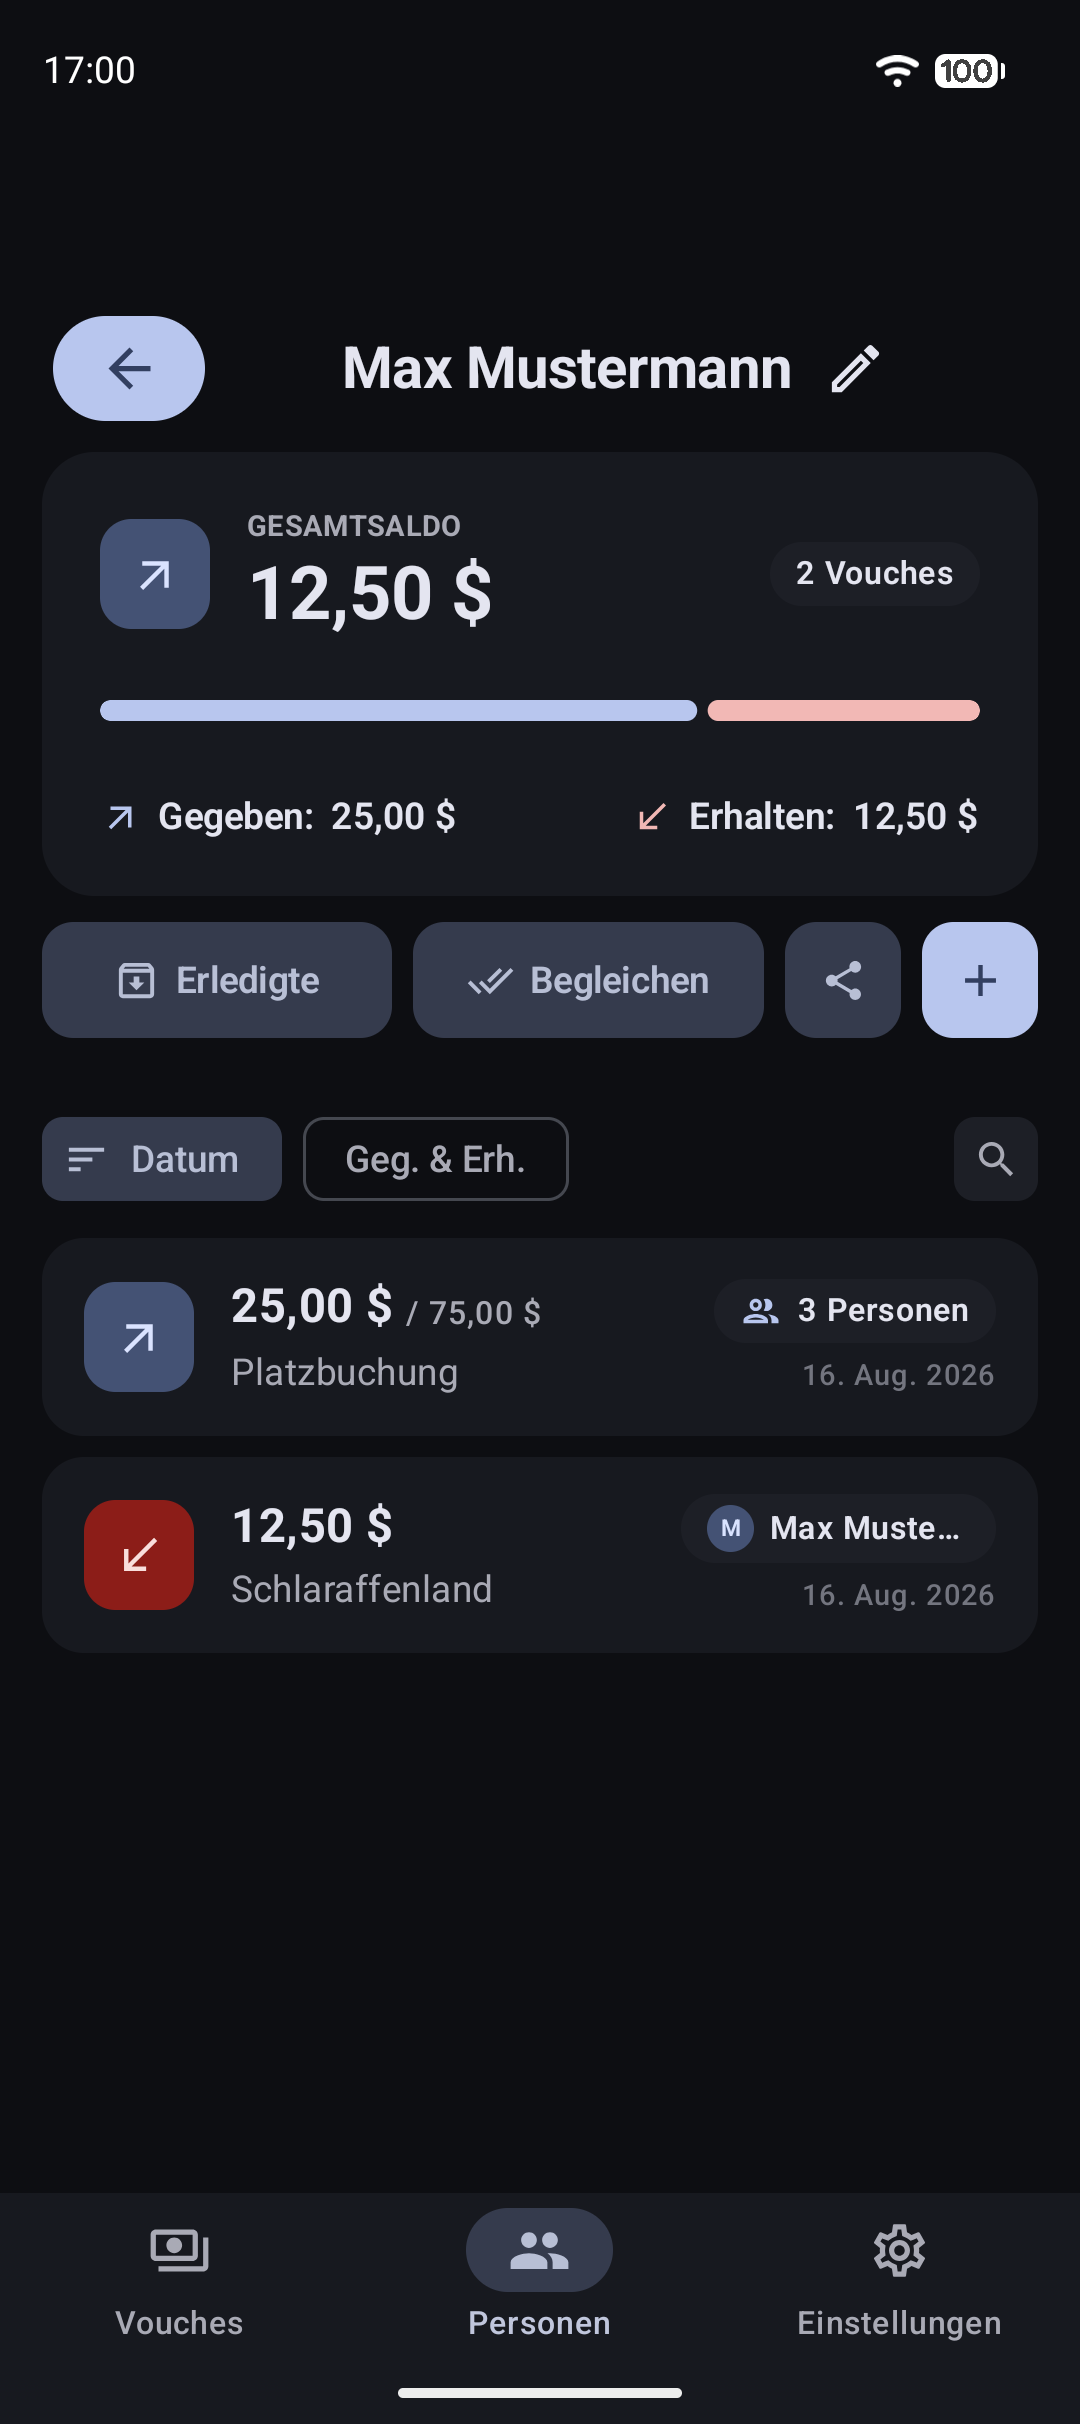
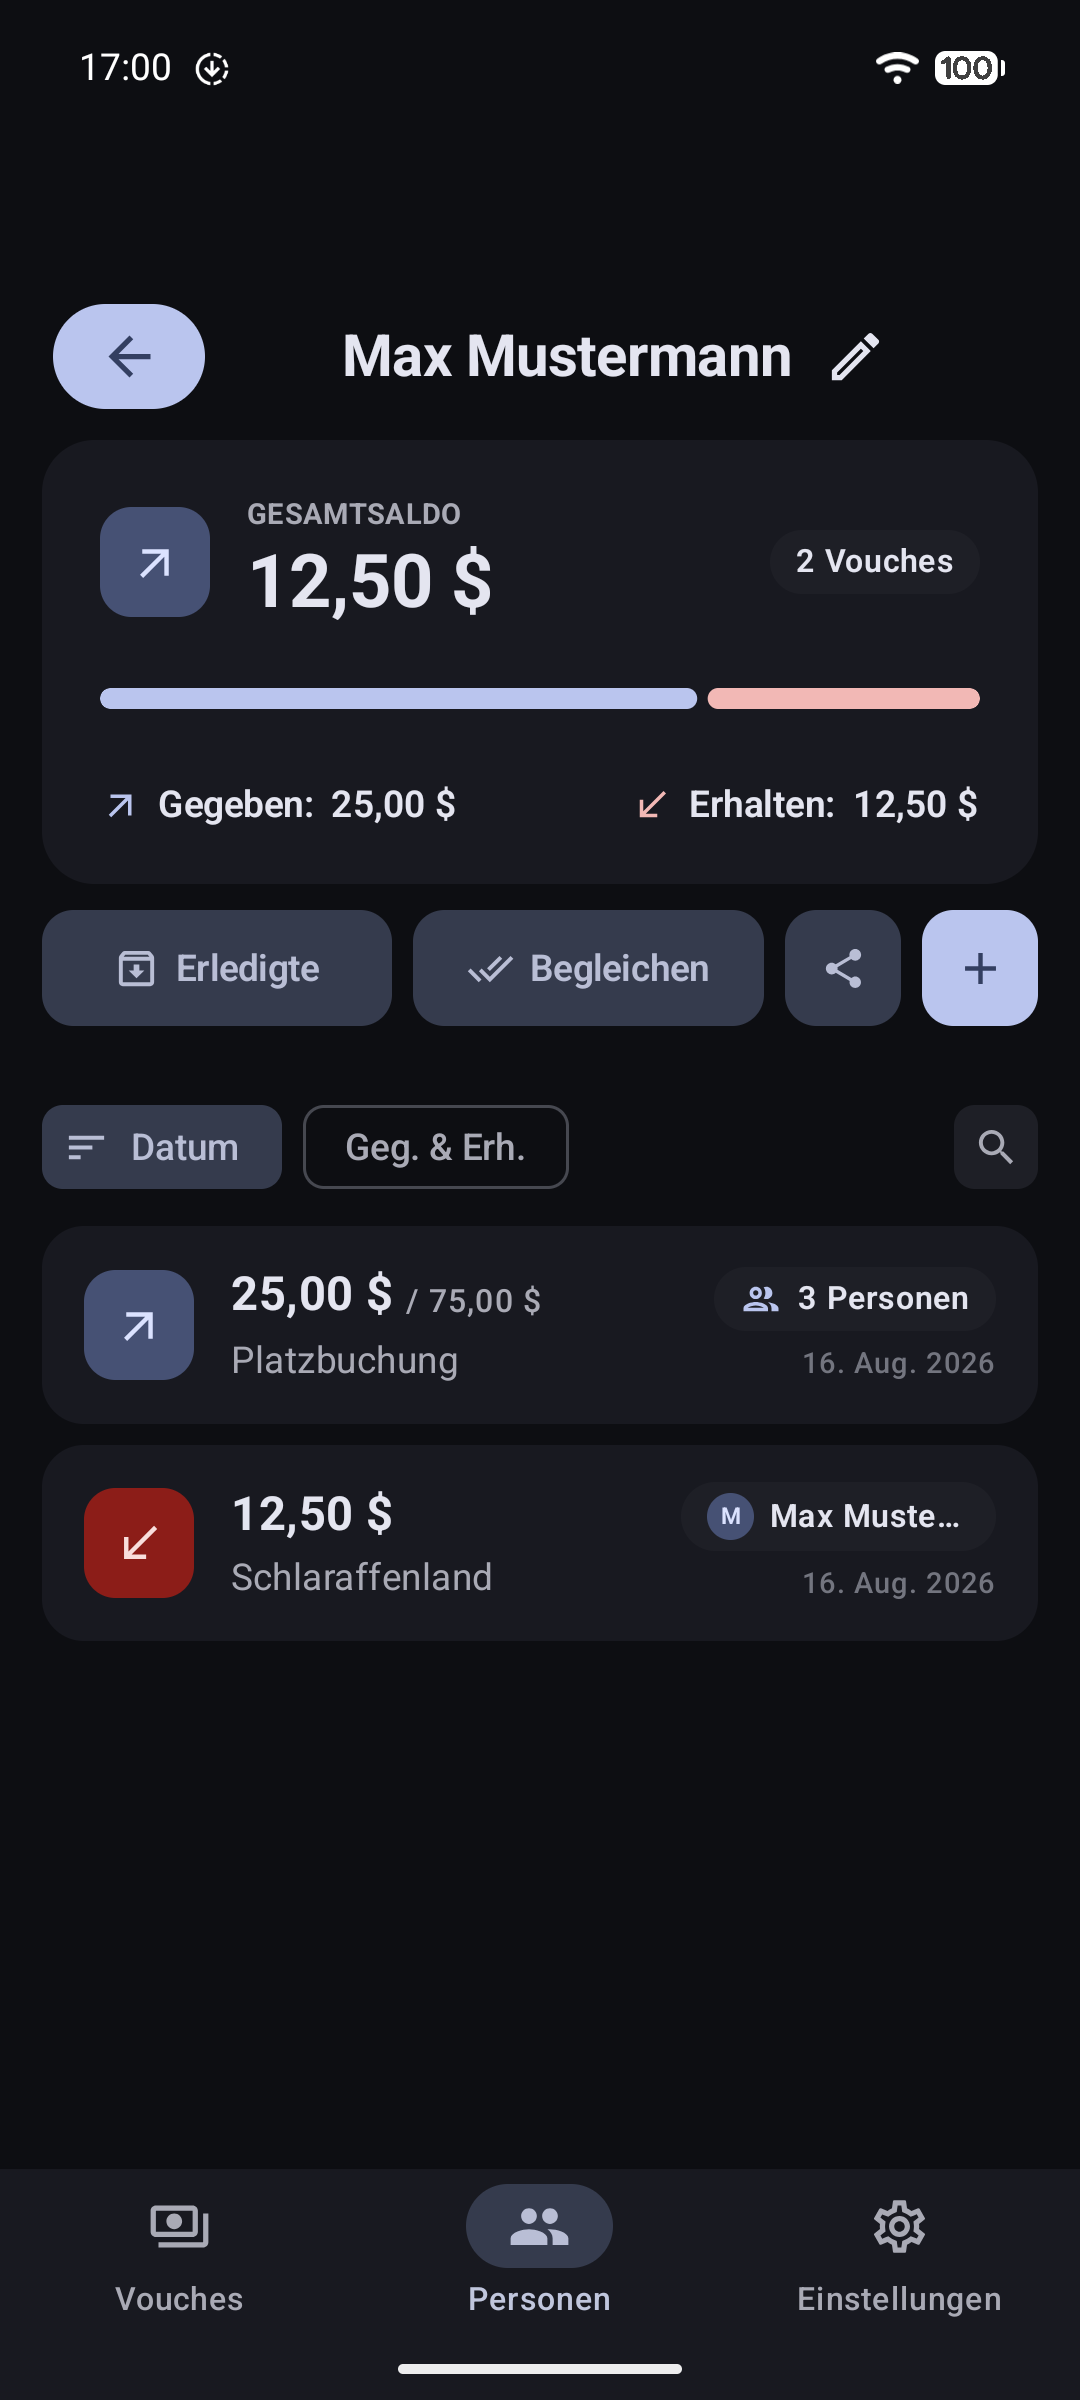
feat(screenshots): match Pixel 7 Android 17 design, Material You palette, and status bar

diff --git a/app/src/androidTest/java/com/iyox/vouch/screenshots/ScreenshotTest.kt b/app/src/androidTest/java/com/iyox/vouch/screenshots/ScreenshotTest.kt
@@ -74,9 +74,11 @@ class ScreenshotTest {
         try {
             val uiAutomation = InstrumentationRegistry.getInstrumentation().uiAutomation
             uiAutomation.executeShellCommand("cmd uimode night yes")
+            uiAutomation.executeShellCommand("settings put secure theme_customization_overlay_packages \"{\\\"android.theme.customization.system_palette\\\":\\\"AAB0D5\\\",\\\"android.theme.customization.accent_color\\\":\\\"AAB0D5\\\",\\\"android.theme.customization.theme_style\\\":\\\"TONAL_SPOT\\\",\\\"android.theme.customization.color_source\\\":\\\"preset\\\"}\"")
             uiAutomation.executeShellCommand("settings put global sysui_demo_allowed 1")
             uiAutomation.executeShellCommand("settings put system time_12_24 24")
             uiAutomation.executeShellCommand("settings put system status_bar_show_battery_percent 1")
+            uiAutomation.executeShellCommand("settings put system font_scale 1.0")
             uiAutomation.executeShellCommand("am broadcast -a com.android.systemui.demo -e command enter")
             uiAutomation.executeShellCommand("am broadcast -a com.android.systemui.demo -e command clock -e hhmm 1700")
             uiAutomation.executeShellCommand("am broadcast -a com.android.systemui.demo -e command battery -e level 100 -e plugged false")
